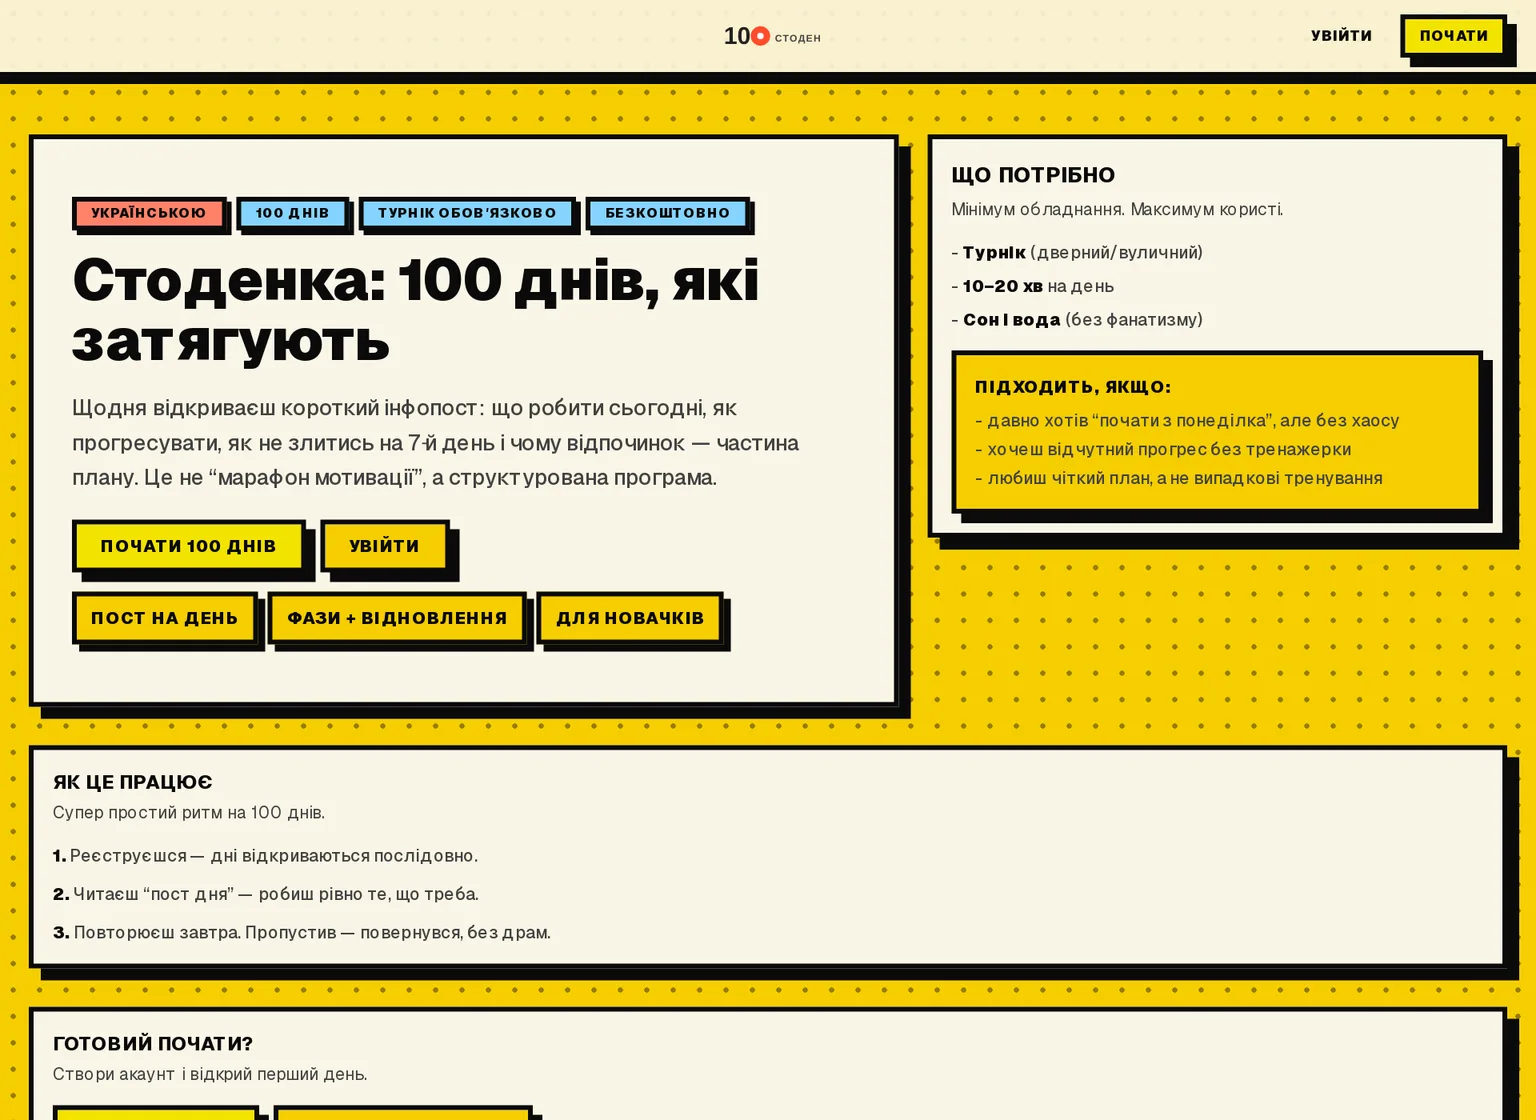
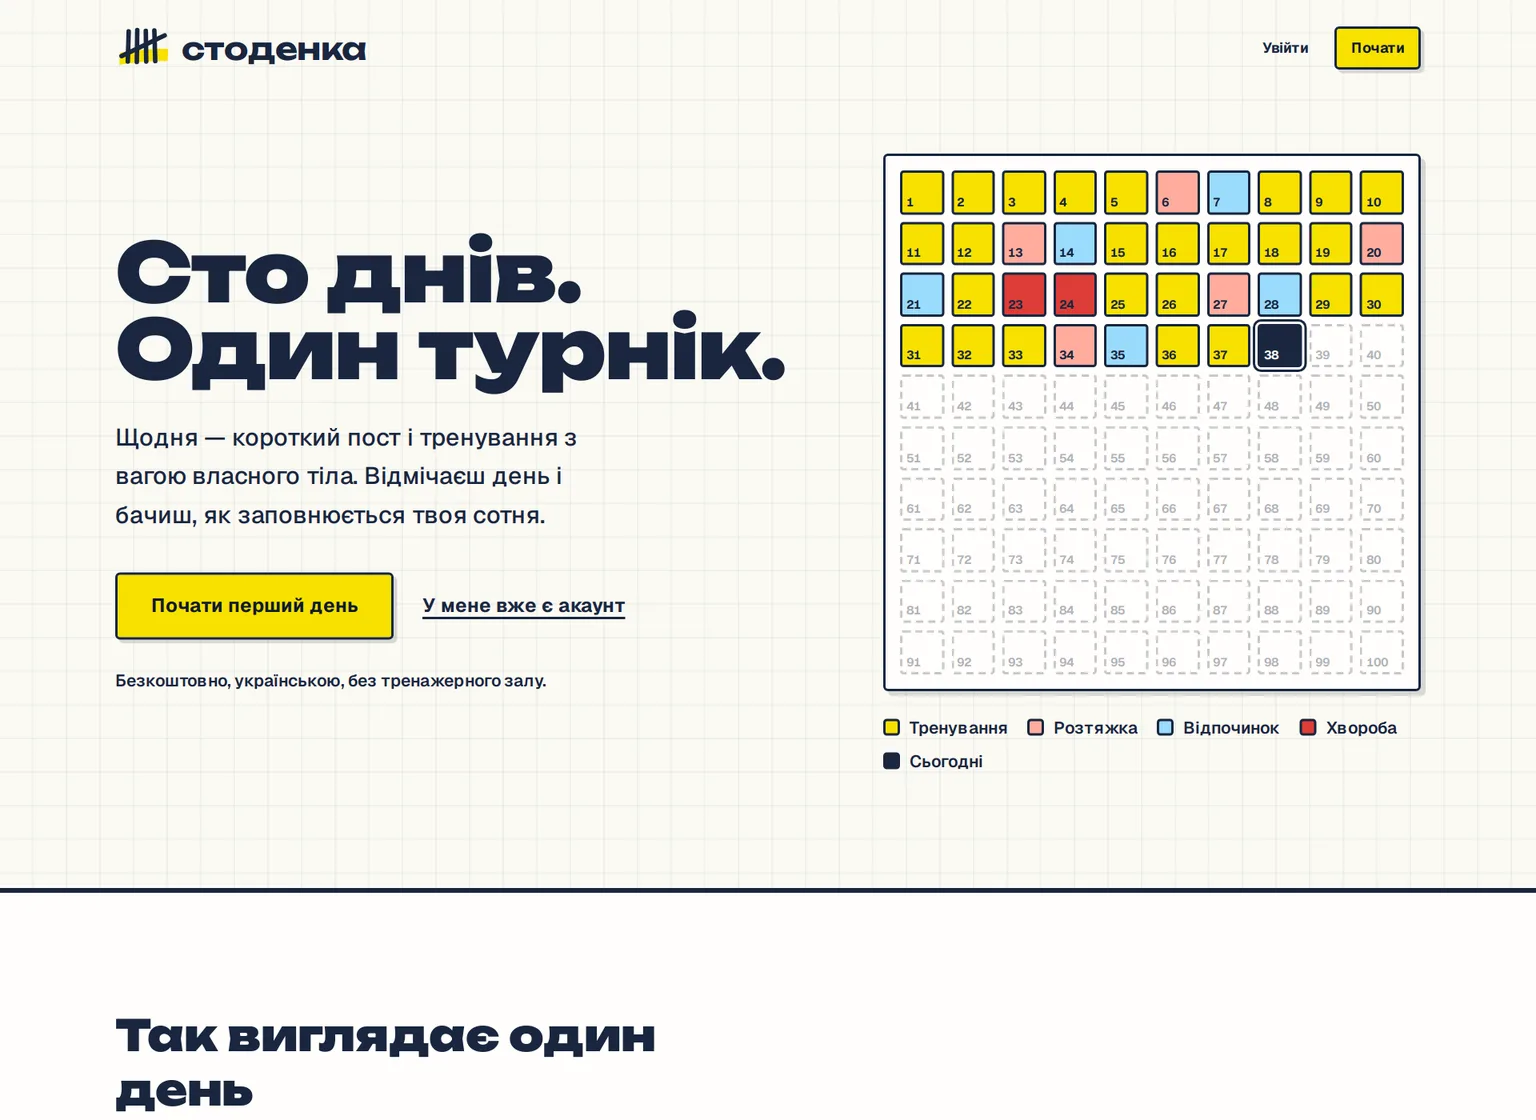
Стоденка: нові скріншоти й окремий розділ серед основних проєктів
Claude-Session: https://claude.ai/code/session_017rVFvSzsiYyi855tfUVkqm

diff --git a/README.uk.md b/README.uk.md
@@ -68,12 +68,26 @@ _Внутрішній інструмент з реальними даними б
 **Стек:** Next.js 16, NextAuth v5, Upstash Redis, Resend, Telegram Bot API, react-hook-form  
 [Відкрити](https://notificator-lake.vercel.app) · Приватний репозиторій, код на запит
 
+### Stodenka
+
+<a href="https://training-olive-three.vercel.app"><img src="assets/training.webp" width="420" alt="Stodenka screenshot"></a>
+
+Програма тренувань на турніку на 100 днів у стилі «тренувального щоденника»: короткий пост щодня, журнал тренувань, прогрес і Telegram-бот.
+
+- Календар днів тренування, розтяжки й відпочинку, режим заняття з таймером відпочинку, стартові максимуми й власні вправи
+- Підказка повторень: після тренування питає «Як пройшло?» і після «легко» додає крок до наступного
+- Сторінка «Прогрес»: графіки тижневого обсягу й повторень, вага й обхвати, фото «до/після» в приватному Cloudflare R2 зі стисненням у браузері
+- Telegram-бот: привʼязка акаунта, ранковий пост, вечірня відмітка дня кнопками й тижневий підсумок у неділю
+- Публічна сторінка «Поділитися» з OG-картинкою; адмінка з редактором постів і аналітикою відтоку (крива утримання, дні, де кидають)
+
+**Стек:** Next.js 16, React 19, Prisma 7, Postgres, Tailwind 4, TipTap, Telegram Bot API, Cloudflare R2  
+[Відкрити](https://training-olive-three.vercel.app) · [Код](https://github.com/rollandss/training)
+
 ## Менші проєкти
 
 | | |
 |---|---|
 | <img src="assets/brutal-ui.webp" width="260" alt="Brutal UI screenshot"> | **Brutal UI**<br>Бібліотека React-компонентів у стилі необруталізму: 39 типізованих компонентів і демо-сайт. Використана в Tests System.<br><sub>React, TypeScript, Tailwind CSS, Next.js</sub><br>[Відкрити](https://brutal-ui-one.vercel.app) · [Код](https://github.com/rollandss/brutal-ui) |
-| <img src="assets/training.webp" width="260" alt="Stodenka screenshot"> | **Stodenka**<br>Програма тренувань на турніку на 100 днів: короткий пост на кожен день, лог підходів і повторів, адмінка з редактором постів.<br><sub>Next.js 16, Prisma, Postgres, TipTap, jose</sub><br>[Відкрити](https://training-olive-three.vercel.app) · [Код](https://github.com/rollandss/training) |
 | <img src="assets/crm.webp" width="260" alt="Скріншот дашборду CRM"> | **CRM для e-commerce**<br>Замовлення, товари, клієнти й доставка для інтернет-магазину. Підтягує замовлення з Prom.ua і Rozetka, створює відправлення Новою поштою, Укрпоштою й Meest, аналітика продажів, 2FA і журнал дій.<br><sub>Next.js 16, Prisma, Postgres, NextAuth + TOTP, Recharts, Jest</sub><br>Приватний репозиторій, код на запит |
 | <img src="assets/mayno.webp" width="260" alt="Скріншот QR-етикеток Mayno"> | **Mayno**<br>Облік обладнання: таблиця з пошуком і фільтрами в URL, друк QR-етикеток, що відкривають картку предмета, історія змін із календарем, вигрузка в Excel.<br><sub>Next.js 16, Prisma, SQLite, Auth.js, TanStack Table, Vitest, Playwright</sub><br>Приватний репозиторій, код на запит |
 | <img src="assets/calendar.webp" width="260" alt="Staff Calendar screenshot"> | **Staff Calendar**<br>Перша версія календаря змін для мережі винних магазинів, з нотатками й експортом у PDF. Згодом переросла в Oblik Stores. Імена на скріншоті замінені.<br><sub>Next.js, PDF export</sub> |

diff --git a/README.md b/README.md
@@ -68,12 +68,26 @@ Birthday reminders in Telegram and by email, set up once.
 **Stack:** Next.js 16, NextAuth v5, Upstash Redis, Resend, Telegram Bot API, react-hook-form  
 [Open live](https://notificator-lake.vercel.app) · Private repo, code on request
 
+### Stodenka
+
+<a href="https://training-olive-three.vercel.app"><img src="assets/training.webp" width="420" alt="Stodenka screenshot"></a>
+
+100-day pull-up bar program in a “training notebook” style: a short post every day, a workout log, progress tracking and a Telegram bot.
+
+- Calendar of training, stretching and rest days, workout mode with a rest timer, starting maxes and custom exercises
+- Rep suggestions: after each workout it asks how it went and adds a step to the next one after “easy”
+- Progress page: weekly volume and reps charts, weight and body measurements, before/after photos in a private Cloudflare R2 bucket, compressed in the browser
+- Telegram bot: account linking, morning post, evening check-in buttons and a weekly summary on Sundays
+- Public share page with an OG image; admin with a post editor and churn analytics (retention curve, days where people drop off)
+
+**Stack:** Next.js 16, React 19, Prisma 7, Postgres, Tailwind 4, TipTap, Telegram Bot API, Cloudflare R2  
+[Open live](https://training-olive-three.vercel.app) · [Source code](https://github.com/rollandss/training)
+
 ## Smaller projects
 
 | | |
 |---|---|
 | <img src="assets/brutal-ui.webp" width="260" alt="Brutal UI screenshot"> | **Brutal UI**<br>Neobrutalist React component library: 39 typed components with a demo site. Used in Tests System.<br><sub>React, TypeScript, Tailwind CSS, Next.js</sub><br>[Open live](https://brutal-ui-one.vercel.app) · [Source code](https://github.com/rollandss/brutal-ui) |
-| <img src="assets/training.webp" width="260" alt="Stodenka screenshot"> | **Stodenka**<br>100-day pull-up bar program: a short daily post, workout log with sets and reps, and an admin editor for posts.<br><sub>Next.js 16, Prisma, Postgres, TipTap, jose</sub><br>[Open live](https://training-olive-three.vercel.app) · [Source code](https://github.com/rollandss/training) |
 | <img src="assets/crm.webp" width="260" alt="CRM dashboard screenshot"> | **E-commerce CRM**<br>Orders, products, customers and shipping for an online store. Pulls orders from Prom.ua and Rozetka, creates shipments with Nova Poshta, Ukrposhta and Meest, sales analytics, 2FA and audit log.<br><sub>Next.js 16, Prisma, Postgres, NextAuth + TOTP, Recharts, Jest</sub><br>Private repo, code on request |
 | <img src="assets/mayno.webp" width="260" alt="Mayno QR labels screenshot"> | **Mayno**<br>Equipment inventory: searchable table with filters kept in the URL, printable QR labels that open the item card, change history with a calendar view, Excel export.<br><sub>Next.js 16, Prisma, SQLite, Auth.js, TanStack Table, Vitest, Playwright</sub><br>Private repo, code on request |
 | <img src="assets/calendar.webp" width="260" alt="Staff Calendar screenshot"> | **Staff Calendar**<br>First version of the shift calendar for the wine store chain, with notes and PDF export. Later grew into Oblik Stores. Names in the screenshot are replaced.<br><sub>Next.js, PDF export</sub> |
